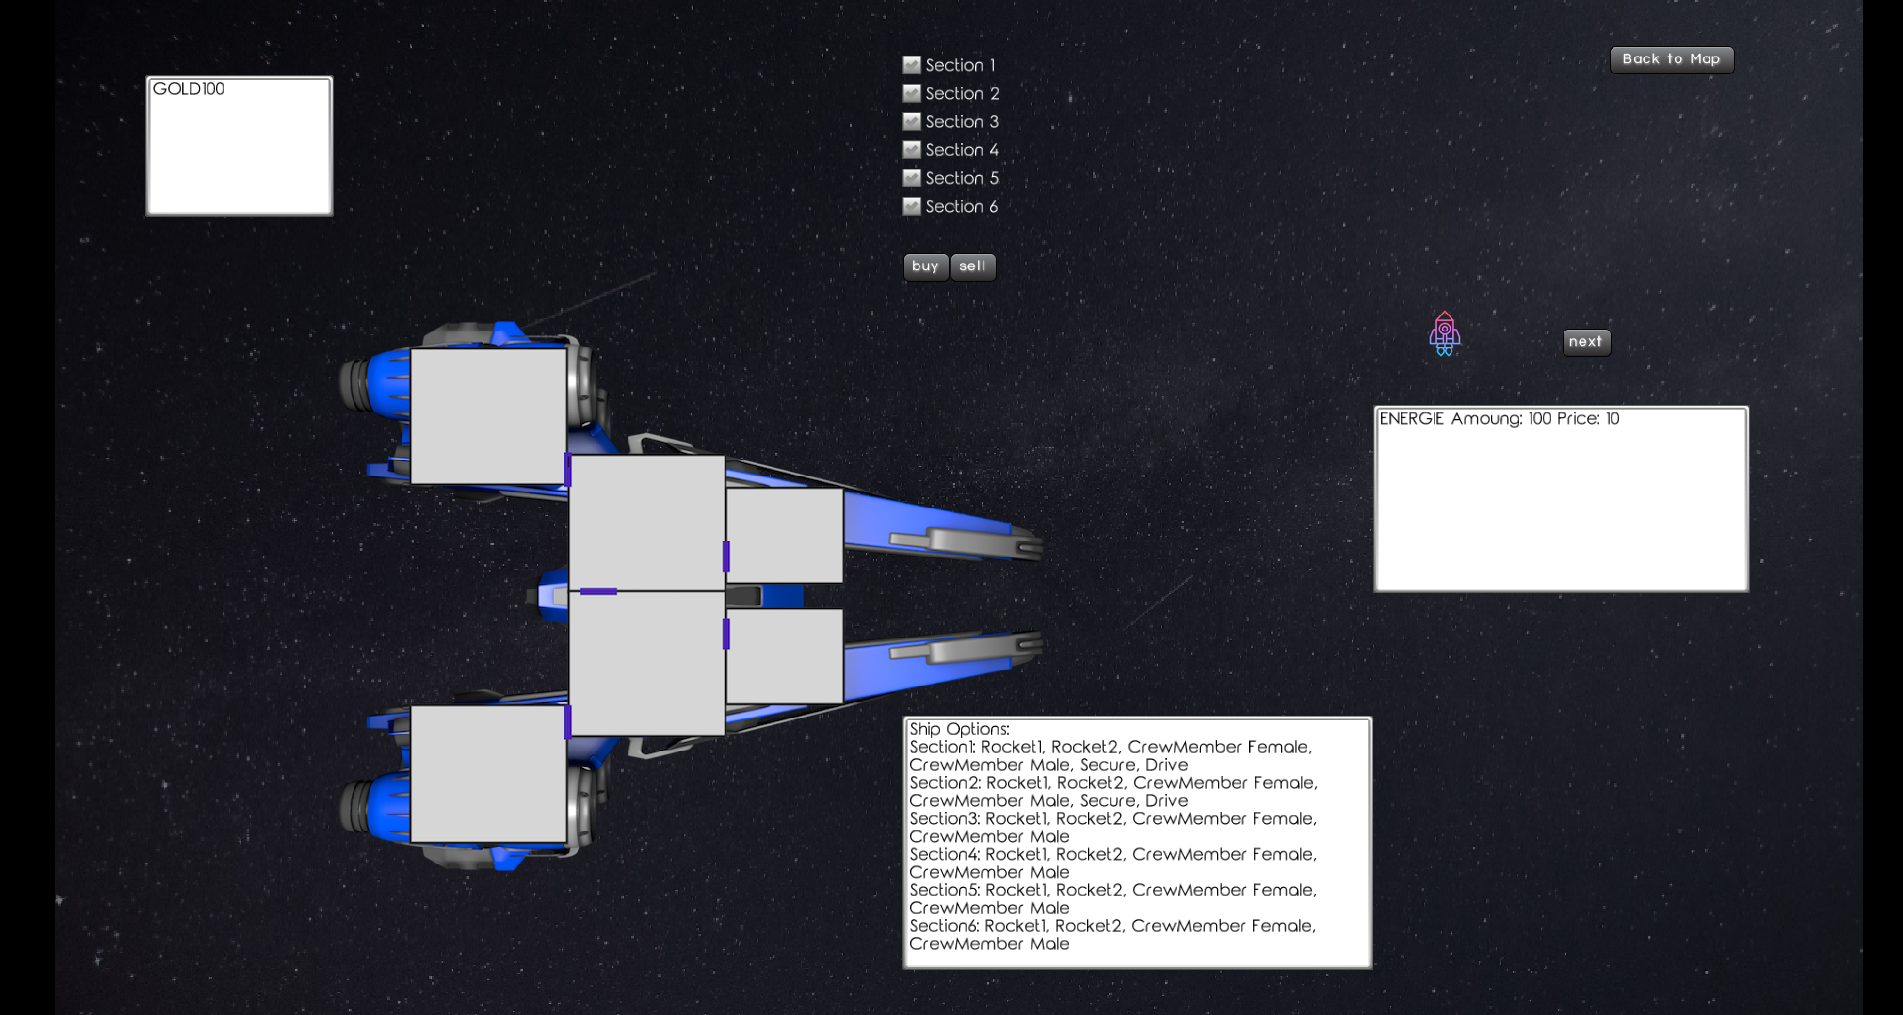
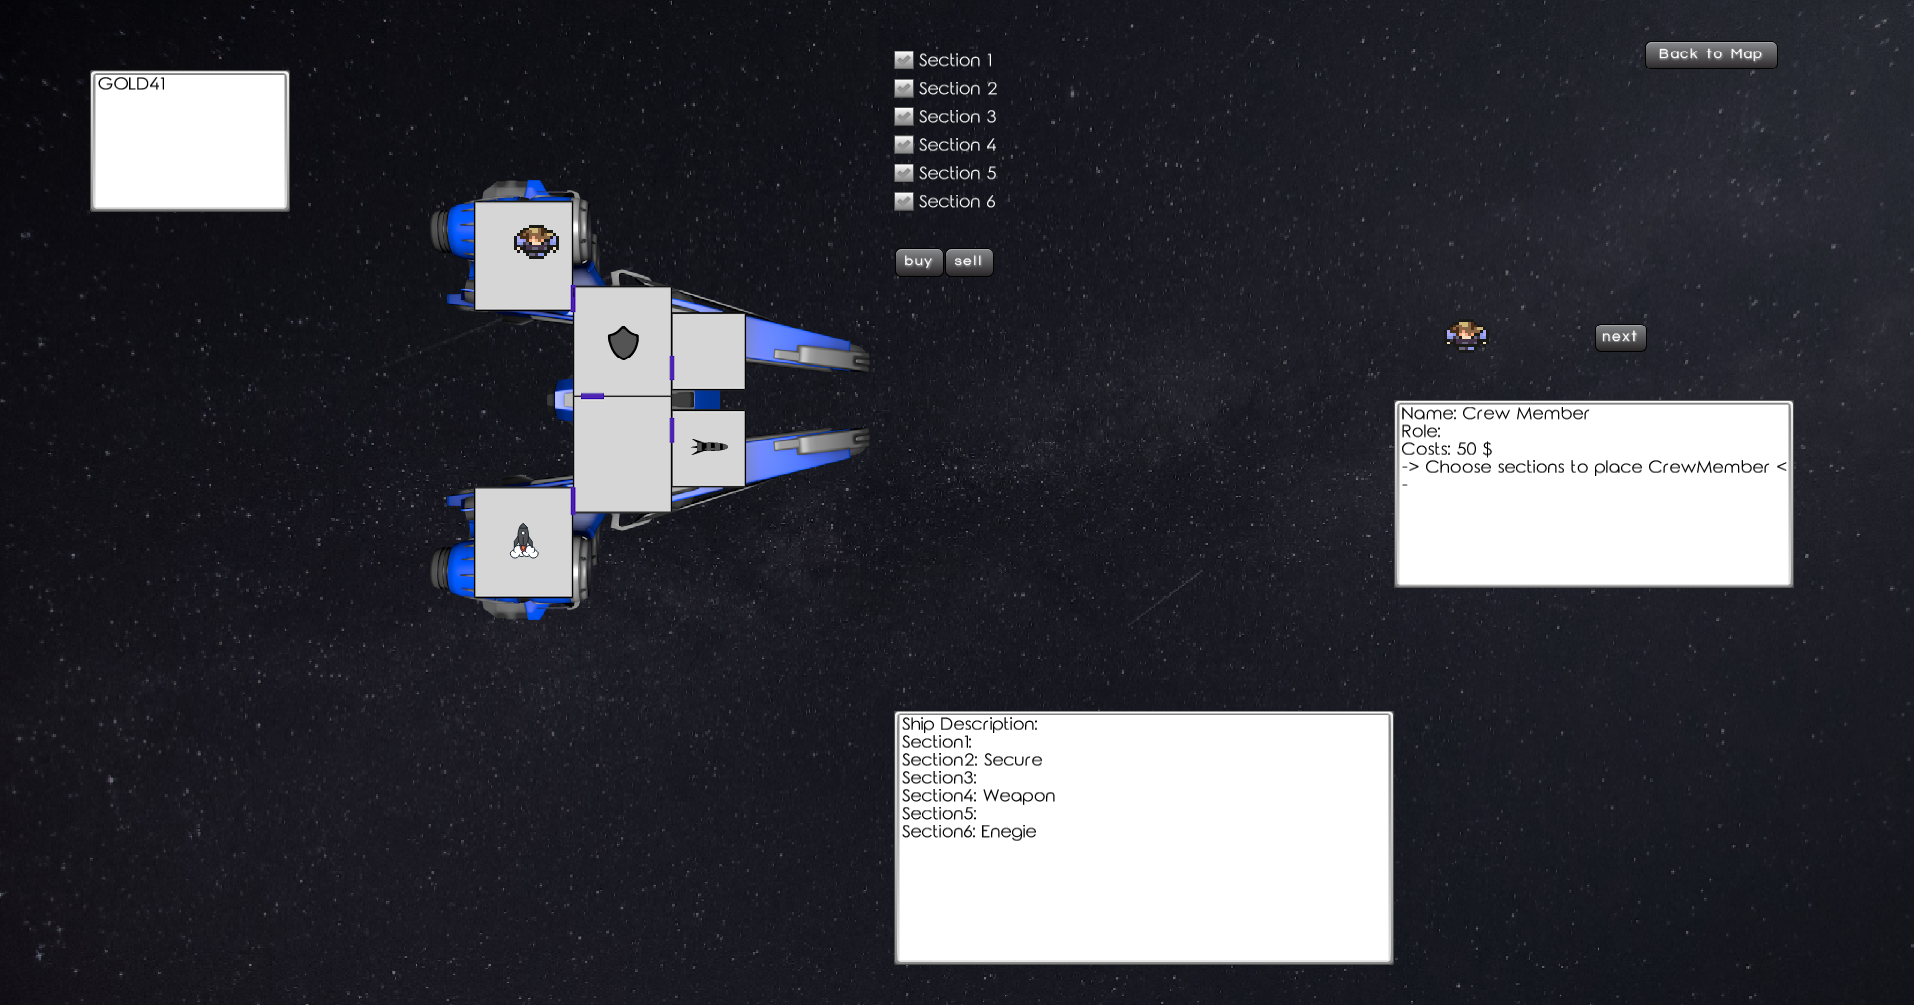
Benutzerhandbuch 80%

diff --git a/docs/Benutzerhandbuch/Benutzerhandbuch.tex b/docs/Benutzerhandbuch/Benutzerhandbuch.tex
@@ -122,7 +122,7 @@ Hier ergeben sich die Möglichkeiten ein Single Player Spiel oder ein Multiplaye
 	\centering
 	\includegraphics[width=1.00\linewidth]{pics/gamemodescreen.png}
 	\caption{Spielmodus}
-	\label{fig1}
+	%\label{fig1}
 \end{figure}
 
 \subsection{Single Player}
@@ -136,7 +136,7 @@ und Besatzung.
 	\centering
 	\includegraphics[width=1.00\linewidth]{pics/SinglePlayer01.png}
 	\caption{Single Player}
-	\label{fig1}
+	%\label{fig1}
 \end{figure}
 
 Die Anzeige am unteren Bildschirmrand zeigt die zugehörigen Crew Member und dessen Namen, sowie über welche Systeme das Raumschiff verfügt.\\
@@ -151,13 +151,13 @@ Im Single Player Modus werden die Gegner, auf die der Spiele im laufe des Spiels
 
 Hier sehen Sie den Screen, der erscheint, wenn Sie  Multiplayer im New Game Screen gewählt haben:\\
 Dieser Screen unterscheidet sich in sofern vom Singlaplayer Screen, dass eine zusätzliche Anzeige erscheint, der Sie entnehmen können, wie viele weitere Spieler online sind.\\
-Damit weiter Spieler erscheinen müssen diese im Login Screen die selber Netzwerkadresse angegeben haben/ auf dem gleichen Server angemeldet sein und ebenfalls den Multiplayer Modus augewählt haben.\\
+Damit weiter Spieler erscheinen müssen diese im Login Screen die selber Netzwerkadresse angegeben haben/auf dem gleichen Server angemeldet sein und ebenfalls den Multiplayer Modus augewählt haben.\\
 Außerdem entfällt die Wahl der Spielstufe, da der Gegner nun nicht mehr durch den Computer ersetzt werden muss.
 
 \begin{figure}[htp]
 	\centering
 	\includegraphics[width=1.00\linewidth]{pics/MultiPlayer01.png}
-	\caption{Single Player}
+	\caption{Multiplayer}
 	\label{fig1}
 \end{figure}
 
@@ -166,21 +166,129 @@ oder sich über Play with AI doch zu einem Spiel im Single Player Modus umzuents
  
 \newpage
 %%%%%%%%%%%%%%%%%%%%%%%%%%%%%%%%%%%%%%%%%%%%%%%%%%%%%%%%%%%%%%%%%%%%%%%%
-\section{Spielstufen Easy und Normal}
+\section{Univesum}
 
+Nach klicken des Start Buttons des vorherigen Screens, gelangen Sie zur Map des Universums.\\
+In diesem Beispiel sehen Sie die Map des Easy Universum. Das Raumschiff befindet sich auf dem Start Planeten unten links. Zu sehen sind vier weitere Planeten sowie eine Shoppingmall.\\
+All diese Stationen können angeflogen werden. Wird die Shoppingmall angeflogen, gelangt man zum Shop Screen, dazu mehr im Kapitel Shopping.\\
+\begin{figure}[htp]
+	\centering
+	\includegraphics[width=1.00\linewidth]{pics/universeEasyP1.png}
+	\caption{Map des Universums}
+	\label{fig1}
+\end{figure}
 
-Beschreibung der Spielmodus.
+Wird eines der weiteren vier Planeten angeflogen (der Startplanet birgt kein Ereignis), dann erscheint ein
+Pop up Fenster mit einer Information zu diesem Planeten. Die Optionen sind, per jump diesen anzufliegen und zu landen oder über back zurück zur Map zu gelangen. Der Planet der am weitesten rechts liegt, kann jedoch nur als letztes angeflogen werden, wenn der Spiele die Ereignisse der vorherigen Planeten gemeistert hat, denn auf diesem wartet der Endgegner auf einen und nur wenn auch dieser besiegt wurde, ist das Spiel endgültig gewonnen. Zu den Stationen mehr im Kapitel Kampf.\\
+Wird die Shopping Mall angeflogen, gelangt das Raumschiff zum Shop Screen, in dem er die Möglichkeit hat Ressourcen für sein Raumschiff einzukaufen, dazu mehr im Kapitel Shopping.\\
+
+\begin{figure}[htp]
+	\centering
+	\includegraphics[width=1.00\linewidth]{pics/infoPlanet2.png} %Bild austauschen
+	\caption{Info zu Planet}
+	\label{fig1}
+\end{figure}
+
+Ein Planet, der bereits besucht wurde verfärbt sich dunkel:
+
+\begin{figure}[htp]
+	\centering
+	\includegraphics[width=0.30\linewidth]{pics/visitedPlanet.png}
+	\caption{visited Planet}
+	\label{fig1}
+\end{figure}
+
+Oben rechts im Fenster ist der Button Save game zu sehen, dieser ermöglicht das Speichern des Spiels, zu jenem Zeipunkt, wenn sich das Raumschiff wieder auf der Map befindet.
+
 %%%%%%%%%%%%%%%%%%%%%%%%%%%%%%%%%%%%%%%%%%%%%%%%%%%%%%%%%%%%%%%%%%%%%%%%
-\subsection{Map}
-Beschreibung der Spielmodus.
+\section{Einen Planeten anfliegen}
+Haben Sie sich dazu entschieden per Jump, einen Planeten azufliegen, gelangen Sie zum Travelscreen.
+%Bild Travelscreen einfügen
+Ein Infofenster erscheint und beschreibt den Planeten, daraufhin muss sich der Spieler je nach dem, wie er die Lage einschätzt, zwischen Explore und Leave entscheiden. Leave führt zurück zur Map und Explore führt die Reise fort.\\
+Nach einer kurzen Weile tritt ein zufälliges Ereignis ein, dass sich positiv ode Negativ auf den Spieler auswirken kann. In diesem Fall wurde das Leben/HP hochgesetzt und verändert die Anzeige unten links.\\
+Je nach Ereignis, könen Sie immernoch taktisch entscheiden, ob Sie fliehen, kämpfen, shoppen oder upgraden möchten.
+
+\begin{figure}[htp]
+	\centering
+	\includegraphics[width=1.00\linewidth]{pics/randomEreignis.png}
+	\caption{Zufälliges Ereignis}
+	\label{fig1}
+\end{figure}
+
+Über Flee gelangen Sie zurück zur Map. Über Fight treten sie unwiederruflich dem Kampf bei, über Shop wird wieder die Möglichkeit geboten zu shoppen, und über Upgrade bieten sich eine Menge Möglichkeiten, Systeme für den kommenden Kampf zu upgraden, siehe Bild.\\
+Nach einem Upgrade, besteht immernoch die Möglichketi per Button wieder zurück zur Map zu gelangen.
+
+
+\begin{figure}[htp]
+	\centering
+	\includegraphics[width=1.00\linewidth]{pics/upgrade.png}
+	\caption{Upgrade der Systeme}
+	\label{fig1}
+\end{figure}
 
 %%%%%%%%%%%%%%%%%%%%%%%%%%%%%%%%%%%%%%%%%%%%%%%%%%%%%%%%%%%%%%%%%%%%%%%%
-\section{Eigentliches Spiel}
+\section{Shopping}
+
+Im Shop Screen sind drei Anzeigen zu sehen. Jene oben rechts zeigt an, wie viel Gold/Geld zur verfügung steht. Die am unteren Fensterrand beschreibt das Schiff, in diesem Fall welche Sektion für welche Systeme verantwortlich ist. Die rechte Anzeige beschreibt das Item das darüber angezeigt wird: worum es sich handelt, eigenschaften und dessen Kosten.\\
+Über den next Button lässt sich durch das Angebot gucken, die Anzeige darunter, passt sich dementsprechend an.\\
+Das Angebot umfasst: Gold, Energie, Crew Member und ein Weapon Lasser. Die Kosten werden entsprechend von dem Gold abgezogen. Secure lässt sich in der vorher upgrade Option kaufen und nicht über den Shop. Möchten Sie einen Crew Member kaufen, so muss die Checkbox der entsprechende Sektion, in die der Crew Member plaziert werden soll, ausgewählt werden, bevor der Kauf über den Buy Button bestätigt werden kann. Möchten Sie den Shop verlassen, dann klicken Sie auf den Back to Map Button in der oberen rechten Ecke. 
+
+\begin{figure}[htp]
+	\centering
+	\includegraphics[width=1.00\linewidth]{pics/shopScreen.png} %Bild muss noch angepasst werden ohne Sell button
+	\caption{Shop}
+	\label{fig1}
+\end{figure}
+
+%%%%%%%%%%%%%%%%%%%%%%%%%%%%%%%%%%%%%%%%%%%%%%%%%%%%%%%%%%%%%%%%%%%%%%%%
+\section{Der Kampf}
+
+\subsection{Beschreibung der Oberfläche}
+Im Kampf stehen sich das Raumschiff des Spielers und das des Gegners gegenüber.
+Zu Beginn sind die Raumschiffe jeweils von ihrem Schutzschild umgeben.
+Die Schrift auf der linken Seite des Fensters beschreibt die Waffen des eigenen Raumschiffs.
+In diesem Fall verfügt das Raumschiff des Spielers über die Waffen Rocket Left und Lasse Right.
+Diese wiederum haben die Attribute Damage, Bullets und Warmup. Damage gibt an, wie viel Schaden die Waffe dem Gegner bei einem Treffer zufügt. Die Anzahl der Bullets sind
+die Anzahl der Schüsse einer Waffe und Warmup gibt die Dauer in Runden an, bis die Waffe wieder einsatzbereit ist.\\
+
+Unten links ist die Energie und dessen Verteilung zu sehen. In dem weißen Balken von links nach rechts: der Betrag des Schutzshcildes, das Leben des Gegners, Secure, Drive und Weapon.
+Die grünen Balken stellen die Energie dar, die verteilt werden kann.\\
+
+Die eigenen Sektionen und dessen Eigenschaften sind in roter Schrift unterhalb des gegnerischen Raumschiffs beschrieben: ist die Sektion benutzbar, wie viel Oxygen ist in der Sektion verfügbar, welche Rolle hat die Sektion, dh. für welches System ist sie verantwortlich, ob Health, Weapon oder Engine und welcher Crew Member ist in welcher Sektion.\\
+
+In dem gegnerischen Raumschiff sind drei weiße Symbole zu sehen. Diese repräsentieren die Systeme, die angegriffen werden müssen. In diesem Fall hat das Raumschiff
+ein Cockpit, ein Drive System und ein Weapon System.\\
+
+\begin{figure}[htp]
+	\centering
+	\includegraphics[width=1.00\linewidth]{pics/combatScreenRot01.png}
+	\caption{der Kampf}
+	\label{fig1}
+\end{figure}
+
+\subsection{Spielverlauf}
+
+[...roh..]
+Start waiting klicken 2mal , warm up muss runter gehen, bei 0 schießen.
+Shießen sektion auswählen, wenn nicht dann pop up mit hinweis Please select a target. tehn you can shoot.
+section wählen und mit leertaste schießen. (waffe schießt) wenn kein schuss mehr übrig runden beenden. playing drücken, der gegner reagiert, danach nochmal button um warm zu starten.
+dann kann weiter geschossen werden.
+Energie muss clever verteielt werden, sonst kann weapon system nicht benutz werden (pop up mit hinweis: Please charge energy to weapon system)
+(wird noch geklärt wann eine sektion des gegners kaputt ist). Crew Member können bewegt werden. wenn system kaputt wird automatisch repariert wenn
+crew member in sektion, deshalb taktisch hinbewegen.kann an usable erkannt werden wird wieder true gesetzt wenn crew member seinen job gemcht hat.
+ energie wir dpro runden neu hinzugefügt. Wechsel der crew member benötigt zeit. erkennt man auch an sanduhr.
+reparatur rollenabhängig.Schild: solange da schiff kann nicht beschädigt werden.
+
+Endgegner Befor you travel here you have to visit other planets
+
+
+
+
+%%%%%%%%%%%%%%%%%%%%%%%%%%%%%%%%%%%%%%%%%%%%%%%%%%%%%%%%%%%%%%%%%%%%%%%%
+\section{Spielstufen}
 Beschreibung der Kamfscreen.
 %%%%%%%%%%%%%%%%%%%%%%%%%%%%%%%%%%%%%%%%%%%%%%%%%%%%%%%%%%%%%%%%%%%%%%%%
-\subsection{Spiel Verlauf}
-Beschreibung der Spielmodus.
-%%%%%%%%%%%%%%%%%%%%%%%%%%%%%%%%%%%%%%%%%%%%%%%%%%%%%%%%%%%%%%%%%%%%%%%%
+
 
 \subsection{Spiel Unterbrechung}
 Beschreibung der Unterbrechung des Spiels und fortsetzen.
